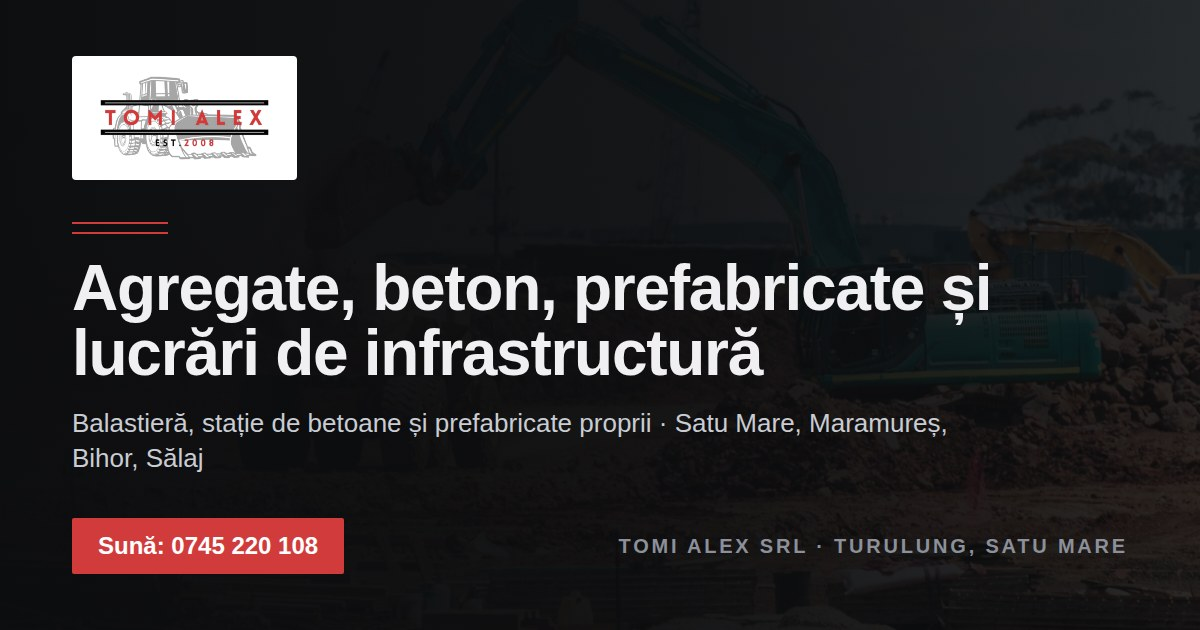
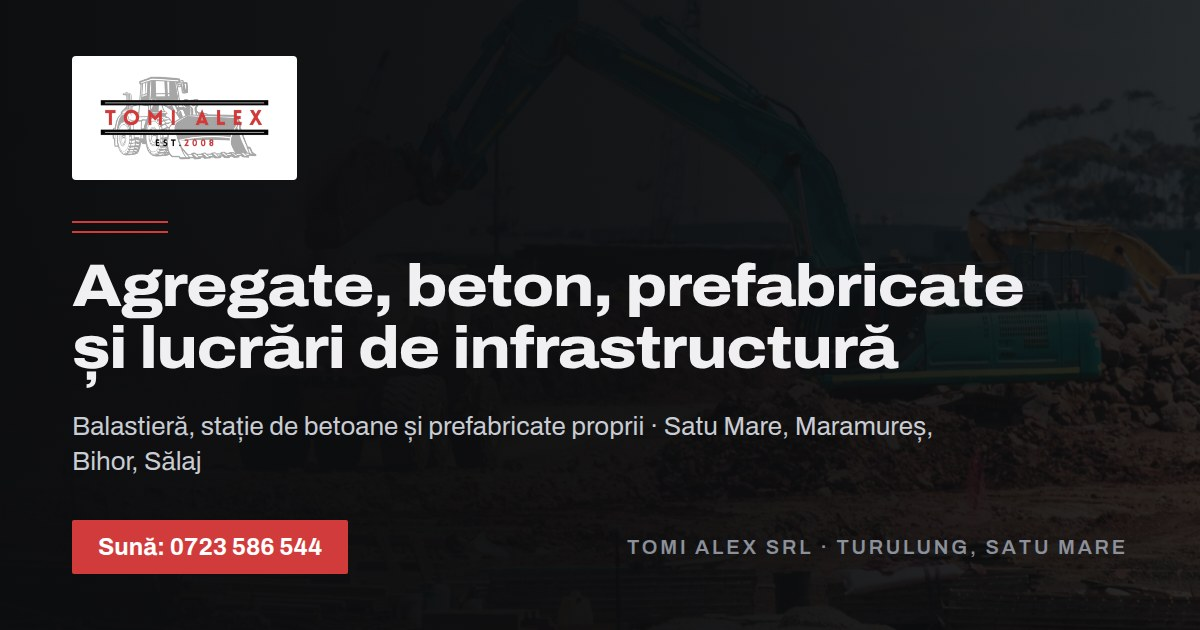
Imaginea de share cu numărul de telefon corect, regenerabilă din date
Poza afișată de Facebook, WhatsApp și LinkedIn arăta vechiul număr 0745 220 108. A fost regenerată cu 0723 586 544 și, ca să nu mai rămână în urmă, scriptul scripts/og.mjs (npm run og) o compune citind numele, telefonul, localitatea și titlul din src/data/company.ts și src/data/seo.ts. Adresa imaginii este versionată prin constanta ogImage (/og.jpg?v=2), folosită în toate paginile și în datele structurate, pentru că rețelele sociale păstrează imaginea în cache pe adresa ei exactă.

Claude-Session: https://claude.ai/code/session_01L6P7FbAeWNKrhBkYmptKT3

diff --git a/src/app/layout.tsx b/src/app/layout.tsx
@@ -4,7 +4,7 @@ import { CallFab } from "@/components/shared/CallFab";
 import { Header } from "@/components/site/Header";
 import { Footer } from "@/components/site/Footer";
 import { company } from "@/data/company";
-import { pagesSeo, siteUrl } from "@/data/seo";
+import { ogImage, pagesSeo, siteUrl } from "@/data/seo";
 import { OrganizationJsonLd, WebSiteJsonLd } from "@/components/seo/JsonLd";
 import "./globals.css";
 
@@ -36,9 +36,9 @@ export const metadata: Metadata = {
     siteName: company.name,
     title: home.title,
     description: home.description,
-    images: [{ url: "/og.jpg", width: 1200, height: 630, alt: `${company.name}. ${company.tagline}` }],
+    images: [{ url: ogImage, width: 1200, height: 630, alt: `${company.name}. ${company.tagline}` }],
   },
-  twitter: { card: "summary_large_image", title: home.title, description: home.description, images: ["/og.jpg"] },
+  twitter: { card: "summary_large_image", title: home.title, description: home.description, images: [ogImage] },
   robots: { index: true, follow: true, googleBot: { index: true, follow: true, "max-image-preview": "large", "max-snippet": -1 } },
   formatDetection: { telephone: true },
   verification: process.env.NEXT_PUBLIC_GOOGLE_SITE_VERIFICATION ? { google: process.env.NEXT_PUBLIC_GOOGLE_SITE_VERIFICATION } : undefined,

diff --git a/src/app/zone/page.tsx b/src/app/zone/page.tsx
@@ -1,12 +1,13 @@
 import type { Metadata } from "next";
 import { RegionsIndex } from "@/components/site/RegionPage";
 import { contact } from "@/data/company";
+import { ogImage } from "@/data/seo";
 
 export const metadata: Metadata = {
   title: "Zone deservite: Satu Mare, Maramureș, Bihor, Sălaj",
   description: `Agregate, beton, prefabricate și lucrări de infrastructură în Satu Mare, Maramureș, Bihor și Sălaj, din unitățile proprii din Turulung. Tel. ${contact.phoneDisplay}.`,
   alternates: { canonical: "/zone/" },
-  openGraph: { title: "Zone deservite: Satu Mare, Maramureș, Bihor, Sălaj", description: "Agregate, beton, prefabricate și lucrări de infrastructură în Nord-Vestul României.", url: "/zone/", type: "website", images: [{ url: "/og.jpg", width: 1200, height: 630 }] },
+  openGraph: { title: "Zone deservite: Satu Mare, Maramureș, Bihor, Sălaj", description: "Agregate, beton, prefabricate și lucrări de infrastructură în Nord-Vestul României.", url: "/zone/", type: "website", images: [{ url: ogImage, width: 1200, height: 630 }] },
 };
 
 export default function Page() {

diff --git a/src/app/ghiduri/[slug]/page.tsx b/src/app/ghiduri/[slug]/page.tsx
@@ -2,6 +2,7 @@ import type { Metadata } from "next";
 import { notFound } from "next/navigation";
 import { GuidePage } from "@/components/site/Guides";
 import { guideBySlug, guides } from "@/data/guides";
+import { ogImage } from "@/data/seo";
 
 export const dynamicParams = false;
 
@@ -18,7 +19,7 @@ export async function generateMetadata({ params }: { params: Promise<{ slug: str
     description: guide.description,
     keywords: guide.keywords,
     alternates: { canonical: `/ghiduri/${guide.slug}/` },
-    openGraph: { title: guide.seoTitle, description: guide.description, url: `/ghiduri/${guide.slug}/`, type: "article", publishedTime: guide.published, modifiedTime: guide.updated, images: [{ url: "/og.jpg", width: 1200, height: 630 }] },
+    openGraph: { title: guide.seoTitle, description: guide.description, url: `/ghiduri/${guide.slug}/`, type: "article", publishedTime: guide.published, modifiedTime: guide.updated, images: [{ url: ogImage, width: 1200, height: 630 }] },
     twitter: { title: guide.seoTitle, description: guide.description },
   };
 }

diff --git a/src/app/ghiduri/page.tsx b/src/app/ghiduri/page.tsx
@@ -1,11 +1,12 @@
 import type { Metadata } from "next";
 import { GuidesIndex } from "@/components/site/Guides";
+import { ogImage } from "@/data/seo";
 
 export const metadata: Metadata = {
   title: "Ghiduri utile: beton, agregate, prefabricate",
   description: "Ghiduri practice Tomi Alex: ce clasă de beton pentru fundație, nisip sau balast, cât beton îmi trebuie, comanda betonului la domiciliu, prefabricate pentru canalizare.",
   alternates: { canonical: "/ghiduri/" },
-  openGraph: { title: "Ghiduri utile: beton, agregate, prefabricate", description: "Răspunsuri practice la întrebările clienților din Satu Mare și Nord-Vest.", url: "/ghiduri/", type: "website", images: [{ url: "/og.jpg", width: 1200, height: 630 }] },
+  openGraph: { title: "Ghiduri utile: beton, agregate, prefabricate", description: "Răspunsuri practice la întrebările clienților din Satu Mare și Nord-Vest.", url: "/ghiduri/", type: "website", images: [{ url: ogImage, width: 1200, height: 630 }] },
 };
 
 export default function Page() {

diff --git a/src/app/prefabricate/page.tsx b/src/app/prefabricate/page.tsx
@@ -1,6 +1,6 @@
 import type { Metadata } from "next";
 import { Prefabricate } from "@/components/site/Pages";
-import { pagesSeo } from "@/data/seo";
+import { ogImage, pagesSeo } from "@/data/seo";
 
 const seo = pagesSeo["prefabricate"];
 
@@ -9,8 +9,8 @@ export const metadata: Metadata = {
   description: seo.description,
   keywords: seo.keywords,
   alternates: { canonical: "/prefabricate/" },
-  openGraph: { title: seo.title, description: seo.description, url: "/prefabricate/", type: "website", images: [{ url: "/og.jpg", width: 1200, height: 630 }] },
-  twitter: { card: "summary_large_image", title: seo.title, description: seo.description, images: ["/og.jpg"] },
+  openGraph: { title: seo.title, description: seo.description, url: "/prefabricate/", type: "website", images: [{ url: ogImage, width: 1200, height: 630 }] },
+  twitter: { card: "summary_large_image", title: seo.title, description: seo.description, images: [ogImage] },
 };
 
 export default function Page() {

diff --git a/src/app/agregate/page.tsx b/src/app/agregate/page.tsx
@@ -1,6 +1,6 @@
 import type { Metadata } from "next";
 import { Agregate } from "@/components/site/Pages";
-import { pagesSeo } from "@/data/seo";
+import { ogImage, pagesSeo } from "@/data/seo";
 
 const seo = pagesSeo["agregate"];
 
@@ -9,8 +9,8 @@ export const metadata: Metadata = {
   description: seo.description,
   keywords: seo.keywords,
   alternates: { canonical: "/agregate/" },
-  openGraph: { title: seo.title, description: seo.description, url: "/agregate/", type: "website", images: [{ url: "/og.jpg", width: 1200, height: 630 }] },
-  twitter: { card: "summary_large_image", title: seo.title, description: seo.description, images: ["/og.jpg"] },
+  openGraph: { title: seo.title, description: seo.description, url: "/agregate/", type: "website", images: [{ url: ogImage, width: 1200, height: 630 }] },
+  twitter: { card: "summary_large_image", title: seo.title, description: seo.description, images: [ogImage] },
 };
 
 export default function Page() {

diff --git a/src/app/contact/page.tsx b/src/app/contact/page.tsx
@@ -1,6 +1,6 @@
 import type { Metadata } from "next";
 import { Contact } from "@/components/site/Pages";
-import { pagesSeo } from "@/data/seo";
+import { ogImage, pagesSeo } from "@/data/seo";
 
 const seo = pagesSeo["contact"];
 
@@ -9,8 +9,8 @@ export const metadata: Metadata = {
   description: seo.description,
   keywords: seo.keywords,
   alternates: { canonical: "/contact/" },
-  openGraph: { title: seo.title, description: seo.description, url: "/contact/", type: "website", images: [{ url: "/og.jpg", width: 1200, height: 630 }] },
-  twitter: { card: "summary_large_image", title: seo.title, description: seo.description, images: ["/og.jpg"] },
+  openGraph: { title: seo.title, description: seo.description, url: "/contact/", type: "website", images: [{ url: ogImage, width: 1200, height: 630 }] },
+  twitter: { card: "summary_large_image", title: seo.title, description: seo.description, images: [ogImage] },
 };
 
 export default function Page() {

diff --git a/src/app/zone/[judet]/page.tsx b/src/app/zone/[judet]/page.tsx
@@ -2,6 +2,7 @@ import type { Metadata } from "next";
 import { notFound } from "next/navigation";
 import { RegionPage } from "@/components/site/RegionPage";
 import { regionBySlug, regions } from "@/data/regions";
+import { ogImage } from "@/data/seo";
 
 export const dynamicParams = false;
 
@@ -17,7 +18,7 @@ export async function generateMetadata({ params }: { params: Promise<{ judet: st
     title: { absolute: region.title },
     description: region.description,
     alternates: { canonical: `/zone/${region.slug}/` },
-    openGraph: { title: region.title, description: region.description, url: `/zone/${region.slug}/`, type: "website", images: [{ url: "/og.jpg", width: 1200, height: 630 }] },
+    openGraph: { title: region.title, description: region.description, url: `/zone/${region.slug}/`, type: "website", images: [{ url: ogImage, width: 1200, height: 630 }] },
     twitter: { title: region.title, description: region.description },
   };
 }

diff --git a/src/app/beton/page.tsx b/src/app/beton/page.tsx
@@ -1,6 +1,6 @@
 import type { Metadata } from "next";
 import { Beton } from "@/components/site/Pages";
-import { pagesSeo } from "@/data/seo";
+import { ogImage, pagesSeo } from "@/data/seo";
 
 const seo = pagesSeo["beton"];
 
@@ -9,8 +9,8 @@ export const metadata: Metadata = {
   description: seo.description,
   keywords: seo.keywords,
   alternates: { canonical: "/beton/" },
-  openGraph: { title: seo.title, description: seo.description, url: "/beton/", type: "website", images: [{ url: "/og.jpg", width: 1200, height: 630 }] },
-  twitter: { card: "summary_large_image", title: seo.title, description: seo.description, images: ["/og.jpg"] },
+  openGraph: { title: seo.title, description: seo.description, url: "/beton/", type: "website", images: [{ url: ogImage, width: 1200, height: 630 }] },
+  twitter: { card: "summary_large_image", title: seo.title, description: seo.description, images: [ogImage] },
 };
 
 export default function Page() {

diff --git a/src/components/site/Guides.tsx b/src/components/site/Guides.tsx
@@ -4,7 +4,7 @@ import { Reveal } from "@/components/shared/Reveal";
 import { JsonLdScript, orgId } from "@/components/seo/JsonLd";
 import { company, contact } from "@/data/company";
 import { guides, type Guide } from "@/data/guides";
-import { siteUrl } from "@/data/seo";
+import { ogImage, siteUrl } from "@/data/seo";
 
 function fmt(date: string) {
   return new Intl.DateTimeFormat("ro-RO", { dateStyle: "long" }).format(new Date(date));
@@ -102,7 +102,7 @@ export function GuidePage({ guide }: { guide: Guide }) {
           author: { "@id": orgId },
           publisher: { "@id": orgId },
           mainEntityOfPage: url,
-          image: `${siteUrl}/og.jpg`,
+          image: `${siteUrl}${ogImage}`,
           keywords: guide.keywords.join(", "),
           about: guide.related.map((r) => ({ "@type": "Thing", name: r.label, url: `${siteUrl}${r.href}` })),
         }}

diff --git a/src/components/seo/JsonLd.tsx b/src/components/seo/JsonLd.tsx
@@ -1,6 +1,6 @@
 import { aggregates, company, concreteClasses, contact, legal, prefabCategories, social } from "@/data/company";
 import { logo } from "@/data/images";
-import { countyNames, pageFaq, pagesSeo, serviceRegion, siteUrl } from "@/data/seo";
+import { countyNames, ogImage, pageFaq, pagesSeo, serviceRegion, siteUrl } from "@/data/seo";
 import { pageHref } from "@/lib/routes";
 
 export function JsonLdScript({ data }: { data: Record<string, unknown> }) {
@@ -19,7 +19,7 @@ export function OrganizationJsonLd() {
     legalName: legal.legalName,
     url: `${siteUrl}/`,
     logo: `${siteUrl}${logo.full.dark.replace(process.env.NEXT_PUBLIC_BASE_PATH ?? "", "")}`,
-    image: `${siteUrl}/og.jpg`,
+    image: `${siteUrl}${ogImage}`,
     description: company.description,
     foundingDate: company.established,
     slogan: company.tagline,

diff --git a/src/data/seo.ts b/src/data/seo.ts
@@ -7,6 +7,13 @@ import { company, contact } from "./company";
 
 export const siteUrl = "https://tomialex.ro";
 
+/**
+ * Imaginea de share (Open Graph). Sufixul `?v=` se incrementează ori de câte ori
+ * se regenerează `public/og.jpg` (vezi `scripts/og.mjs`), pentru că Facebook,
+ * WhatsApp și LinkedIn păstrează în cache imaginea pe adresa ei exactă.
+ */
+export const ogImage = "/og.jpg?v=2";
+
 /** Regiunea și județele deservite, cu orașele principale (pentru text și date structurate). */
 export const serviceRegion = {
   name: "Nord-Vestul României",
